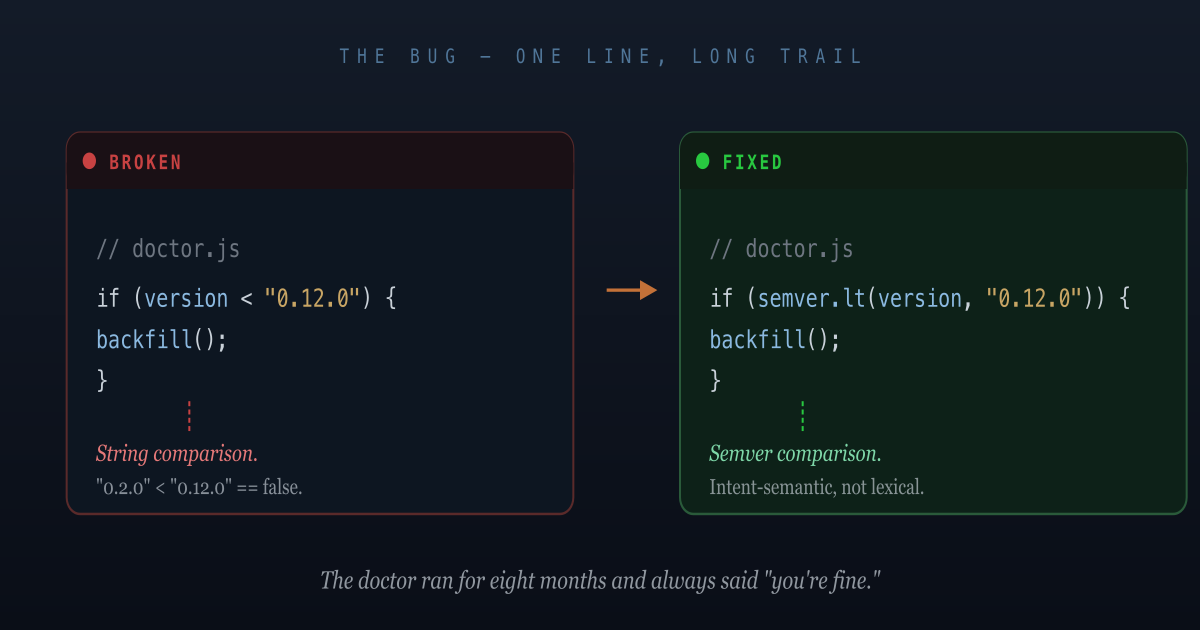
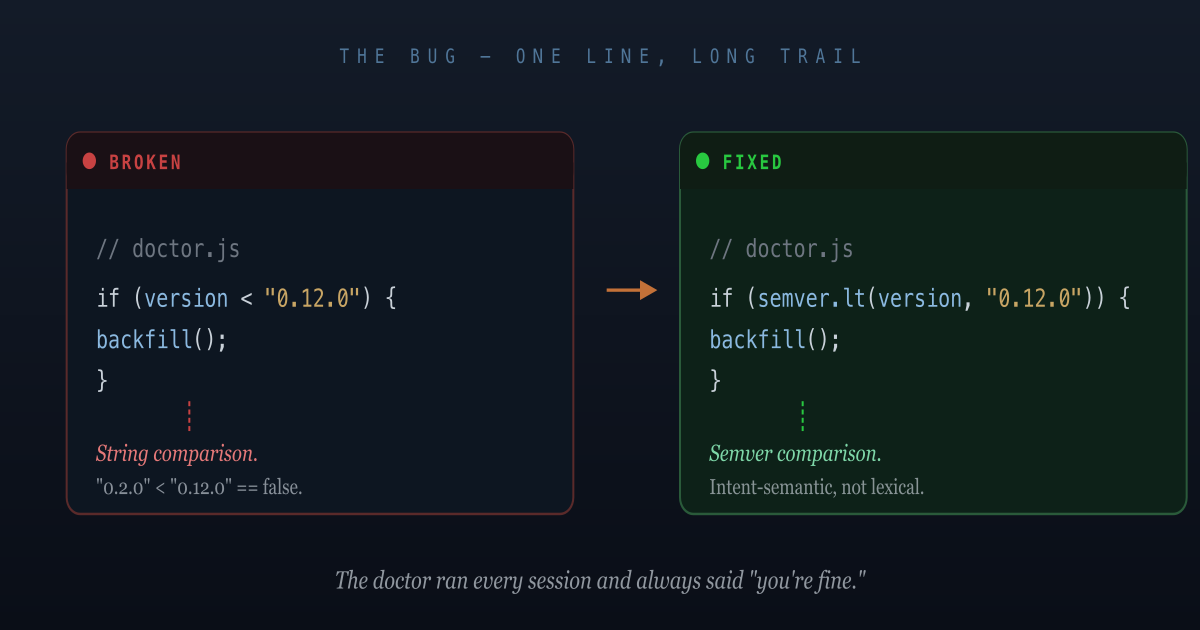
blog: validate-time fixes — doctor 'eight months' + tests 'weeks earlier'
Two fabricated time claims caught by Curtis s01-a51d24:

1. doctor-code-card.svg caption: 'The doctor ran for eight months'
   → 'The doctor ran every session'. Doctor had existed for weeks
   to a month, not eight months. Duration removed; claim now
   qualitative and accurate.

2. the-doctor-that-never-worked.md L59: 'months of silent failure'
   → 'silent failure that had been shipping since the doctor was
   introduced'. Same root: assumed months without verification.

3. tests-that-bailed-silently.md L36: 'retired that repo weeks
   earlier' → 'days earlier'. repos/cli merged 2026-04-18 (commit
   18b0033); post dated 2026-04-20 = 2 days. 'Weeks' was
   fabrication.

Broader fix landed in .soma/amps/muscles/validate-time-claims.md
(next commit) — new muscle forcing verification of every numeric
time-quantifier against git history / CHANGELOG / frontmatter dates
before shipping. Heat 9 (hot). Triggers on time/months/weeks/days
mentions.

Audit of remaining time claims across 29 posts done against ground
truth (first commit 2025-12-15, first public blog 2026-03-08,
license change 2027-09-18). Remaining claims all verified within
rounding tolerance.

Changed region(s): [[0.2467, 0.9048, 0.74, 0.9349]]

diff --git a/src/content/blog/tests-that-bailed-silently.md b/src/content/blog/tests-that-bailed-silently.md
@@ -33,7 +33,7 @@ They weren't broken in the *"we have bugs"* sense. They were broken in the *"the
 
 ## The cause
 
-All five pointed at `repos/cli/`. We'd retired that repo weeks earlier — merged it into `repos/agent/npm/` — and deleted the old path. Every suite that had referenced the old location now crashed on setup. Before any real assertion. Before testing anything.
+All five pointed at `repos/cli/`. We'd retired that repo days earlier — merged it into `repos/agent/npm/` — and deleted the old path. Every suite that had referenced the old location now crashed on setup. Before any real assertion. Before testing anything.
 
 CI reported them as failing. Nobody chased them because "known broken" is a category we all recognize. The red X had become decoration.
 

diff --git a/src/content/blog/the-doctor-that-never-worked.md b/src/content/blog/the-doctor-that-never-worked.md
@@ -56,7 +56,7 @@ echo '{"version":"0.6.2"}' > .soma/settings.json
 soma doctor
 ```
 
-31 characters of test setup. Two commands. That's all it took to expose months of silent failure.
+31 characters of test setup. Two commands. That's all it took to expose a silent failure that had been shipping since the doctor was introduced.
 
 I wrote it as part of a new test suite — `test-install-flows.sh` — that creates fake projects at various old versions and runs the doctor against them. The first run caught the bug immediately. The test existed for five minutes before it found something the entire development cycle had missed.
 